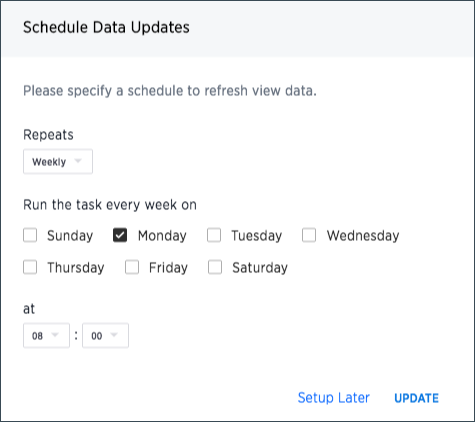
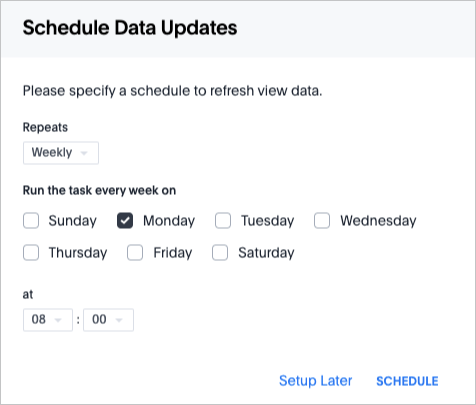
SCAL-49149 updates to schedule materialization on a view page per vishwas

diff --git a/_admin/loading/schedule-materialization.md b/_admin/loading/schedule-materialization.md
@@ -18,19 +18,19 @@ To schedule materialization of a view:
 
 3. Click **Schema**.
 
-4. Under **Materialization**, click the link next to **Update Schedule:**.
+4. Under **Materialization**, click the link next to **Update Schedule**.
 
-5. In the **Schedule data updates** dialog, select an option for **Repeats** (Monthly, Weekly, or Daily).
+5. In the **Schedule Data Updates** dialog, select an option for **Repeats** (Monthly, Weekly, or Daily).
 
    ![]({{ site.baseurl }}/images/materialized-view-sched-weekly.png)
-
-   If you don't want to set a schedule now, choose **Setup later** and skip to Step 11.
 
 6. Fill in the schedule details:
 
    ![]({{ site.baseurl }}/images/schedule-data-updates-weekly.png)
 
-7. Click **Update**.
+7. Click **SCHEDULE**.
+
+{% include note.html content="Refresh works only if it is scheduled in the refresh window set for the cluster (default: 8:00 PM - 4:00 AM). Only the start time of the refresh window is configurable using the flag `orion.materializationConfig.refreshWindowStartTime` which can be set to values such as `12:00PM` or `01:00AM` etc. Example: To set the cluster window from 2:00 AM to 10:00 AM you can set the flag as `orion.materializationConfig.refreshWindowStartTime \"02:00AM\"`."%}
 
 ## Related Information
 
